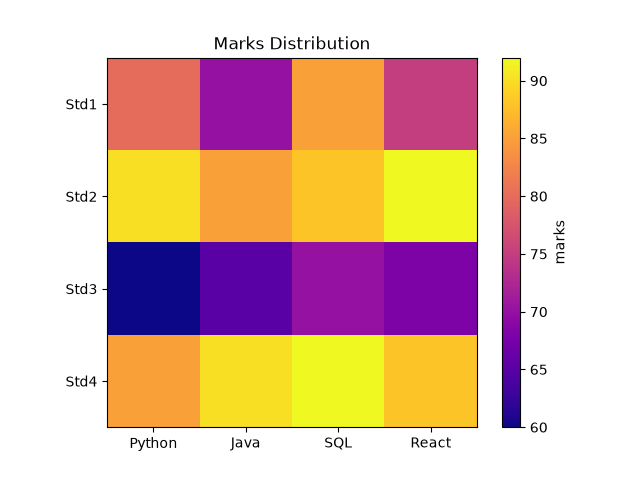
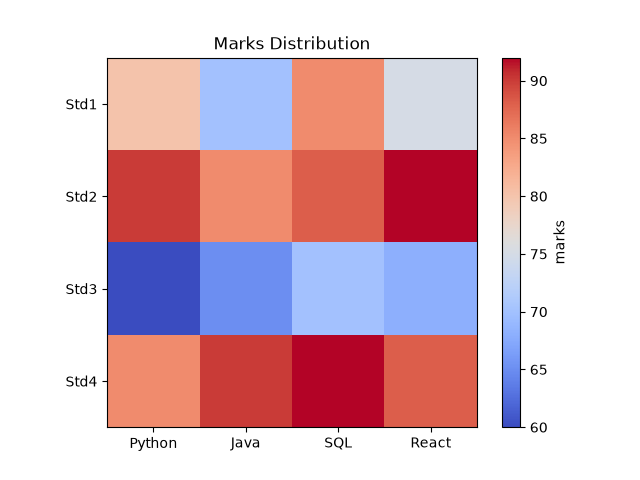
code

diff --git a/05-graphs.py b/05-graphs.py
@@ -1,3 +1,30 @@
+import matplotlib.pyplot as plt
+axes, fig = plt.subplot()
+axes[0] = [2,2,1]
+
+
+
+
+# import pandas as pd
+# df = pd.DataFrame({
+#     "name":["Ravi","Sita","John","Anil"],
+#     "age":[25,30,28,35],
+#     "city":["Hyderabad","Delhi","Mumbai","Chennai"]
+# },index=["A","B","C","D"])
+# print(df)
+# print(df.loc["A"])
+# print(df.loc["B":"D"])
+# print(df.loc["C","name"])
+# print(df.loc[:,"name"])
+# print(df.loc[:,"age"])
+# print(df.loc["A":"B","name"])
+# print(df.loc["A":"C",["name","age"]])
+
+# print(df.iloc[0])
+# print(df.iloc[0:3])
+# print(df.iloc[:,1])
+# print(df.iloc[0:2,0])
+
 # heatmap
 # python std1 - 90(dark green). std2 - 60(green). std3 - 40(light green)
 # import matplotlib.pyplot as plt
@@ -7,7 +34,7 @@
 #          [90,85,88,92],
 #          [60,65,70,68],
 #          [85,90,92,88]]
-# plt.imshow(marks,cmap="plasma")
+# plt.imshow(marks,cmap="coolwarm")        # viridis, plasma,magma, cividis,coolwarm,
 # plt.xticks(range(len(subjects)),subjects)
 # plt.yticks(range(len(students)),students)
 # plt.colorbar(label="marks")
